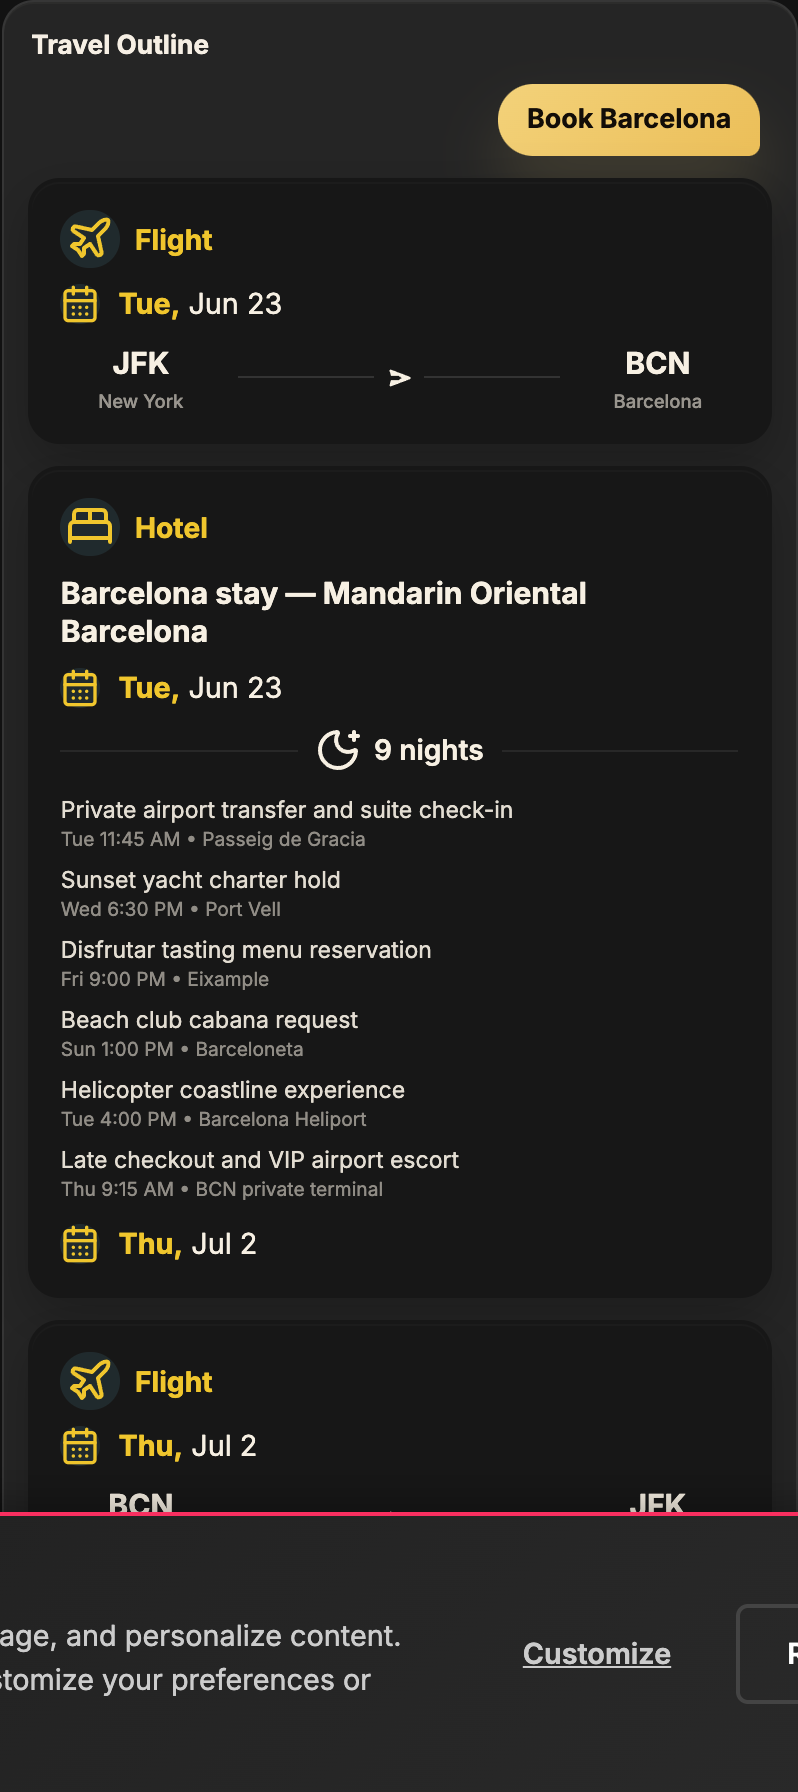
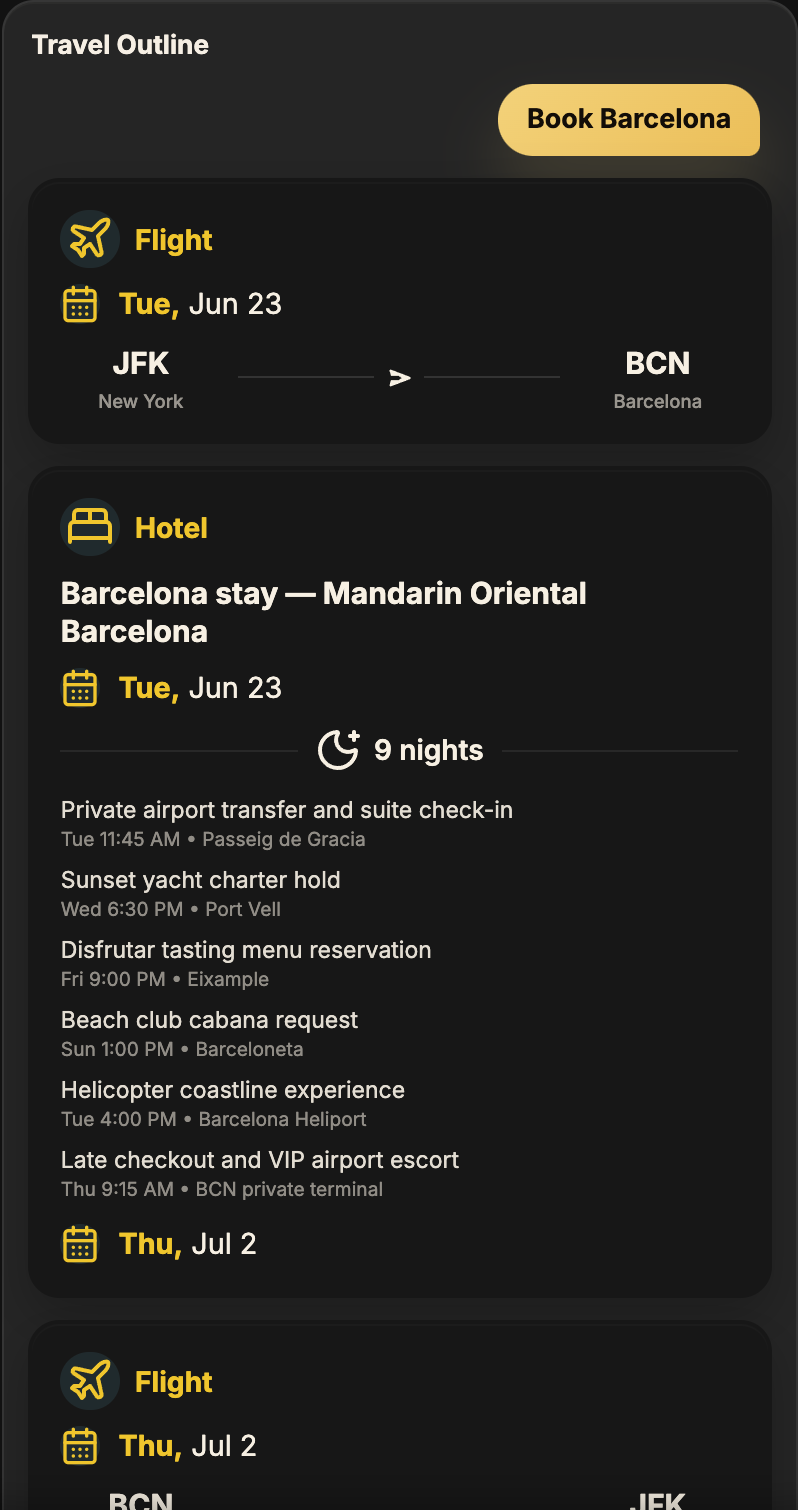
Perf: refresh PackWebsite hero capture and prefetch flow

diff --git a/src/routes/HomePage.tsx b/src/routes/HomePage.tsx
@@ -2,6 +2,7 @@ import React, { Suspense, startTransition, useMemo, useRef, useState } from "rea
 import styled from "styled-components";
 import Layout from "@/components/Layout";
 import HeroAboveFold from "@/components/HeroAboveFold";
+import HeroJourneyShowcase from "@/components/Hero";
 import WaitlistForm from "@/components/WaitlistForm";
 import { useI18n } from "@/i18n/I18nProvider";
 import PageSeo, { createSoftwareApplicationSchema } from "@/seo/pageSeo";
@@ -17,20 +18,52 @@ type IdleWindowLike = Window & {
   cancelIdleCallback?: (handle: number) => void;
 };
 
+type BuildManifestEntry = {
+  readonly file?: string;
+  readonly imports?: readonly string[];
+  readonly css?: readonly string[];
+  readonly assets?: readonly string[];
+};
+
+type BuildManifest = Record<string, BuildManifestEntry>;
+
 const importFooter = () => import("../components/Footer");
 const importScrollToTop = () => import("../components/ScrollToTop");
 const importValueProp = () => import("../components/ValueProp");
-const importHeroJourneyShowcase = () => import("../components/Hero");
 const importLiveActivityStackSection = () =>
   import("../components/LiveActivityStackSection");
 const importBookingTimelineHighlight = () =>
   import("../components/BookingTimelineHighlight");
 const importTrustBanner = () => import("../components/TrustBanner");
 
+const DEFERRED_SECTION_PREFETCH_GROUPS: ReadonlyArray<{
+  readonly entries: readonly string[];
+  readonly timeoutMs: number;
+}> = [
+  {
+    entries: ["src/components/LiveActivityStackSection.tsx"],
+    timeoutMs: 2200,
+  },
+  {
+    entries: [
+      "src/components/ValueProp.tsx",
+      "src/components/BookingTimelineHighlight.tsx",
+      "src/components/TrustBanner.tsx",
+    ],
+    timeoutMs: 4200,
+  },
+  {
+    entries: ["src/components/Footer.tsx", "src/components/ScrollToTop.tsx"],
+    timeoutMs: 6200,
+  },
+] as const;
+
+const prefetchedAssetHrefs = new Set<string>();
+let buildManifestPromise: Promise<BuildManifest | null> | undefined;
+
 const Footer = React.lazy(importFooter);
 const ScrollToTop = React.lazy(importScrollToTop);
 const ValueProp = React.lazy(importValueProp);
-const HeroJourneyShowcase = React.lazy(importHeroJourneyShowcase);
 const LiveActivityStackSection = React.lazy(importLiveActivityStackSection);
 const BookingTimelineHighlight = React.lazy(importBookingTimelineHighlight);
 const TrustBanner = React.lazy(importTrustBanner);
@@ -84,35 +117,6 @@ const DeferredPlaceholder = styled.div<{ $minHeight: number }>`
     rgba(255, 248, 236, 0.02);
 `;
 
-const JourneySuspenseFallback = styled(DeferredPlaceholder)`
-  margin-top: 0.8rem;
-  border-radius: 1.8rem;
-  background:
-    linear-gradient(
-      90deg,
-      rgba(243, 210, 122, 0.04) 0%,
-      rgba(243, 210, 122, 0.1) 42%,
-      rgba(231, 35, 64, 0.08) 58%,
-      rgba(243, 210, 122, 0.04) 100%
-    ),
-    linear-gradient(180deg, rgba(17, 13, 10, 0.86), rgba(11, 9, 7, 0.92));
-  background-size: 200% 100%, auto;
-  animation: journeyPlaceholderShift 1.6s ease-in-out infinite;
-
-  @keyframes journeyPlaceholderShift {
-    0% {
-      background-position: 100% 0, 0 0;
-    }
-    100% {
-      background-position: -100% 0, 0 0;
-    }
-  }
-
-  @media (prefers-reduced-motion: reduce) {
-    animation: none;
-  }
-`;
-
 const SectionSuspenseFallback = styled(DeferredPlaceholder)`
   border-radius: 1.8rem;
   background:
@@ -162,6 +166,164 @@ const scheduleIdleTask = (
 
   const timeoutId = window.setTimeout(callback, timeoutMs);
   return () => window.clearTimeout(timeoutId);
+};
+
+const canSpeculativelyWarmSections = (): boolean => {
+  if (typeof navigator === "undefined") {
+    return false;
+  }
+
+  const connection = (
+    navigator as Navigator & {
+      connection?: {
+        effectiveType?: string;
+        saveData?: boolean;
+      };
+    }
+  ).connection;
+
+  if (!connection) {
+    return true;
+  }
+
+  if (connection.saveData) {
+    return false;
+  }
+
+  return (
+    connection.effectiveType !== "slow-2g" &&
+    connection.effectiveType !== "2g"
+  );
+};
+
+const appendPrefetchLink = (href: string, as?: string) => {
+  if (typeof document === "undefined" || prefetchedAssetHrefs.has(href)) {
+    return;
+  }
+
+  prefetchedAssetHrefs.add(href);
+
+  const link = document.createElement("link");
+  link.rel = "prefetch";
+  link.href = href;
+  if (as) {
+    link.as = as;
+  }
+  link.crossOrigin = "anonymous";
+  document.head.appendChild(link);
+};
+
+const resolveManifestAssetUrls = (
+  manifest: BuildManifest,
+  entryKeys: readonly string[],
+): string[] => {
+  const discoveredUrls: string[] = [];
+  const visitedEntries = new Set<string>();
+  const homepageEntryImports = new Set(manifest["index.html"]?.imports ?? []);
+
+  const visitEntry = (entryKey: string) => {
+    if (visitedEntries.has(entryKey)) {
+      return;
+    }
+
+    visitedEntries.add(entryKey);
+    const entry = manifest[entryKey];
+    if (!entry) {
+      return;
+    }
+
+    if (entry.file) {
+      discoveredUrls.push(`/${entry.file}`);
+    }
+
+    for (const cssFile of entry.css ?? []) {
+      discoveredUrls.push(`/${cssFile}`);
+    }
+
+    for (const assetFile of entry.assets ?? []) {
+      discoveredUrls.push(`/${assetFile}`);
+    }
+
+    for (const importedEntry of entry.imports ?? []) {
+      if (importedEntry !== "index.html" && !homepageEntryImports.has(importedEntry)) {
+        visitEntry(importedEntry);
+      }
+    }
+  };
+
+  for (const entryKey of entryKeys) {
+    visitEntry(entryKey);
+  }
+
+  return discoveredUrls;
+};
+
+const inferPrefetchType = (assetUrl: string): string | undefined => {
+  if (assetUrl.endsWith(".js")) {
+    return "script";
+  }
+  if (assetUrl.endsWith(".css")) {
+    return "style";
+  }
+  if (/\.(png|jpg|jpeg|gif|webp|avif|svg)$/u.test(assetUrl)) {
+    return "image";
+  }
+
+  return undefined;
+};
+
+const loadBuildManifest = async (): Promise<BuildManifest | null> => {
+  if (typeof window === "undefined") {
+    return null;
+  }
+
+  if (!buildManifestPromise) {
+    buildManifestPromise = fetch("/.vite/manifest.json", {
+      credentials: "same-origin",
+      cache: "force-cache",
+    })
+      .then(async (response) => {
+        if (!response.ok) {
+          return null;
+        }
+        return (await response.json()) as BuildManifest;
+      })
+      .catch(() => null);
+  }
+
+  return buildManifestPromise;
+};
+
+const prefetchDeferredSections = (): (() => void) => {
+  const cleanupTasks: Array<() => void> = [];
+
+  const queuePrefetchGroup = (
+    entryKeys: readonly string[],
+    timeoutMs: number,
+  ) => {
+    cleanupTasks.push(
+      scheduleIdleTask(async () => {
+        const manifest = await loadBuildManifest();
+        if (!manifest) {
+          return;
+        }
+
+        for (const assetUrl of resolveManifestAssetUrls(manifest, entryKeys)) {
+          appendPrefetchLink(assetUrl, inferPrefetchType(assetUrl));
+        }
+      }, timeoutMs)
+    );
+  };
+
+  for (const prefetchGroup of DEFERRED_SECTION_PREFETCH_GROUPS) {
+    queuePrefetchGroup(prefetchGroup.entries, prefetchGroup.timeoutMs);
+  }
+
+  return () => {
+    for (const cleanupTask of cleanupTasks) {
+      cleanupTask();
+    }
+  };
 };
 
 const DeferredContent: React.FC<{
@@ -358,6 +520,33 @@ const HomePage: React.FC = () => {
     }
   });
 
+  useMountEffect(() => {
+    if (!canSpeculativelyWarmSections()) {
+      return;
+    }
+
+    const startPrefetching = () => prefetchDeferredSections();
+    let releasePrefetches: (() => void) | undefined;
+
+    if (document.readyState === "complete") {
+      releasePrefetches = startPrefetching();
+      return () => {
+        releasePrefetches?.();
+      };
+    }
+
+    const handleLoad = () => {
+      releasePrefetches = startPrefetching();
+    };
+
+    window.addEventListener("load", handleLoad, { once: true });
+
+    return () => {
+      window.removeEventListener("load", handleLoad);
+      releasePrefetches?.();
+    };
+  });
+
   const heroWaitlist = useMemo(
     () => (
       <div id="waitlist" style={{ display: "grid", gap: "0.85rem" }}>
@@ -390,12 +579,8 @@ const HomePage: React.FC = () => {
         )]}
       />
       <HeroAboveFold waitlistSlot={heroWaitlist} />
-      <DeferredContent minHeight={760} rootMargin="960px 0px">
-        <Suspense fallback={<JourneySuspenseFallback $minHeight={760} aria-hidden="true" />}>
-          <HeroJourneyShowcase journeyOnly />
-        </Suspense>
-      </DeferredContent>
-      <DeferredContent minHeight={560} rootMargin="720px 0px">
+      <HeroJourneyShowcase journeyOnly />
+      <DeferredContent minHeight={560} rootMargin="1280px 0px">
         <Suspense fallback={<SectionSuspenseFallback $minHeight={560} aria-hidden="true" />}>
           <TightAfterLiveActivitySection>
             <SectionInner>
@@ -404,7 +589,7 @@ const HomePage: React.FC = () => {
           </TightAfterLiveActivitySection>
         </Suspense>
       </DeferredContent>
-      <DeferredContent minHeight={560} rootMargin="840px 0px">
+      <DeferredContent minHeight={560} rootMargin="1480px 0px">
         <Suspense
           fallback={
             <>
@@ -443,14 +628,14 @@ const HomePage: React.FC = () => {
           </SectionWrapper>
         </Suspense>
       </DeferredContent>
-      <DeferredContent minHeight={360} rootMargin="960px 0px">
+      <DeferredContent minHeight={360} rootMargin="1800px 0px">
         <SectionWrapper id="waitlist-bottom">
           <WaitlistSectionInner>
             <WaitlistForm />
           </WaitlistSectionInner>
         </SectionWrapper>
       </DeferredContent>
-      <DeferredContent minHeight={240} rootMargin="960px 0px">
+      <DeferredContent minHeight={240} rootMargin="2200px 0px">
         <Suspense fallback={<SectionSuspenseFallback $minHeight={240} aria-hidden="true" />}>
           <Footer />
           <ScrollToTop />

diff --git a/src/components/Hero.tsx b/src/components/Hero.tsx
@@ -62,22 +62,22 @@ import type {
 
 const heroJourneyStillAssets = {
   outline: {
-    src: "/images/hero-captures/plan-still.png",
+    src: "/images/hero-captures/plan-still.png?v=2026-04-14-2",
     width: 798,
-    height: 1792,
+    height: 1510,
   },
   search: {
-    src: "/images/hero-captures/search-still.png",
+    src: "/images/hero-captures/search-still.png?v=2026-04-14-1",
     width: 798,
     height: 2608,
   },
   booking: {
-    src: "/images/hero-captures/booking-still.png",
+    src: "/images/hero-captures/booking-still.png?v=2026-04-14-1",
     width: 798,
     height: 8494,
   },
   footprint: {
-    src: "/images/hero-captures/stats-still.png",
+    src: "/images/hero-captures/stats-still.png?v=2026-04-14-1",
     width: 806,
     height: 4204,
   },
